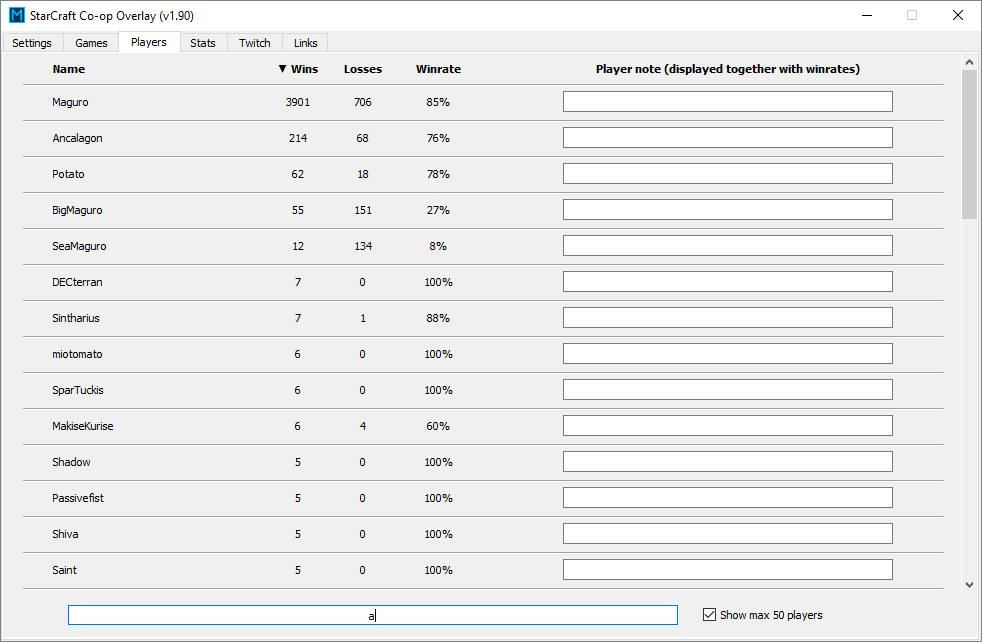
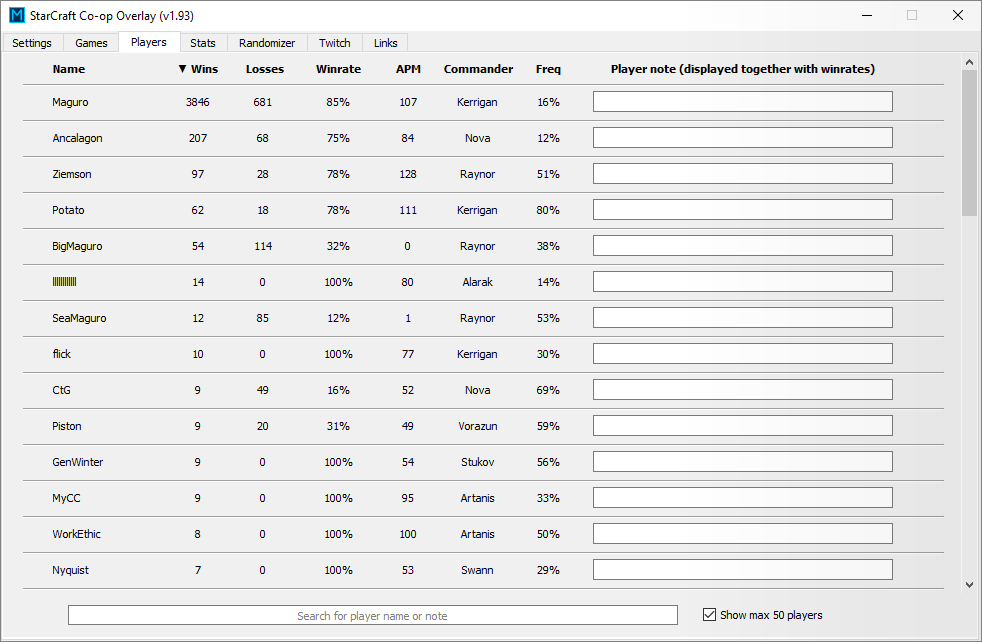
Commander, APM to player tab. Info img. Small things.

diff --git a/SCOFunctions/MUserInterface.py b/SCOFunctions/MUserInterface.py
@@ -669,11 +669,8 @@ class PlayerEntry:
 
     """
 
-    def __init__(self, name, wins, losses, note, parent):
-        self.name = name
-        self.wins = wins
-        self.losses = losses
-        self.winrate = 100*wins/(wins+losses)
+    def __init__(self, player, winrate_data, note, parent):
+        self.name = player
         self.note = note
 
         height = 30
@@ -694,22 +691,34 @@ class PlayerEntry:
         self.la_name.setText(self.name)
 
         self.la_wins = QtWidgets.QLabel(self.widget)
-        self.la_wins.setGeometry(QtCore.QRect(270, line_spacing, 31, 21))
+        self.la_wins.setGeometry(QtCore.QRect(170, line_spacing, 31, 21))
         self.la_wins.setAlignment(QtCore.Qt.AlignCenter)
-        self.la_wins.setText(str(self.wins))
 
         self.la_losses = QtWidgets.QLabel(self.widget)
-        self.la_losses.setGeometry(QtCore.QRect(330, line_spacing, 41, 21))
+        self.la_losses.setGeometry(QtCore.QRect(230, line_spacing, 41, 21))
         self.la_losses.setAlignment(QtCore.Qt.AlignCenter)
-        self.la_losses.setText(str(self.losses))
 
         self.la_winrate = QtWidgets.QLabel(self.widget)
-        self.la_winrate.setGeometry(QtCore.QRect(400, line_spacing, 51, 21))
+        self.la_winrate.setGeometry(QtCore.QRect(300, line_spacing, 51, 21))
         self.la_winrate.setAlignment(QtCore.Qt.AlignCenter)
-        self.la_winrate.setText(f'{self.winrate:.0f}%')
+
+        self.la_apm = QtWidgets.QLabel(self.widget)
+        self.la_apm.setGeometry(QtCore.QRect(370, line_spacing, 51, 21))
+        self.la_apm.setAlignment(QtCore.Qt.AlignCenter)
+        self.la_apm.setToolTip("Median APM")
+
+        self.la_commander = QtWidgets.QLabel(self.widget)
+        self.la_commander.setGeometry(QtCore.QRect(425, line_spacing, 81, 21))
+        self.la_commander.setAlignment(QtCore.Qt.AlignCenter)
+        self.la_commander.setToolTip("The most played commander")
+
+        self.la_frequency = QtWidgets.QLabel(self.widget)
+        self.la_frequency.setGeometry(QtCore.QRect(510, line_spacing, 51, 21))
+        self.la_frequency.setAlignment(QtCore.Qt.AlignCenter)
+        self.la_frequency.setToolTip("The most played commander frequency")
 
         self.ed_note = QtWidgets.QLineEdit(self.widget)
-        self.ed_note.setGeometry(QtCore.QRect(550, line_spacing, 330, 21))
+        self.ed_note.setGeometry(QtCore.QRect(580, line_spacing, 300, 21))
         self.ed_note.setAlignment(QtCore.Qt.AlignCenter)
         self.ed_note.setStyleSheet('color: #444')
         if not self.note in {None,''}:
@@ -721,6 +730,9 @@ class PlayerEntry:
 
         for item in {self.la_name, self.la_wins, self.la_losses, self.la_winrate}:
             item.setTextInteractionFlags(QtCore.Qt.TextSelectableByMouse)
+
+
+        self.update_winrates(winrate_data)
 
 
     def get_note(self):
@@ -742,8 +754,11 @@ class PlayerEntry:
         self.winrate = 100*self.wins/(self.wins+self.losses)
 
         self.la_wins.setText(str(self.wins))
-        self.la_losses.setText(str(self.losses))       
+        self.la_losses.setText(str(self.losses))
         self.la_winrate.setText(f'{self.winrate:.0f}%')
+        self.la_apm.setText(f'{data[2]:.0f}')
+        self.la_commander.setText(str(data[3]))  
+        self.la_frequency.setText(f'{100*data[4]:.0f}%')
 
 
 class WorkerSignals(QtCore.QObject):

diff --git a/SCO.py b/SCO.py
@@ -370,21 +370,39 @@ class UI_TabWidget(object):
 
         self.LA_Wins = QtWidgets.QLabel(self.WD_WinratesHeading)
         self.LA_Wins.setAlignment(QtCore.Qt.AlignCenter)
-        self.LA_Wins.setGeometry(QtCore.QRect(260, 0, 50, 31))
+        self.LA_Wins.setGeometry(QtCore.QRect(160, 0, 50, 31))
         self.LA_Wins.setText("▼ Wins")
 
         self.LA_Losses = QtWidgets.QLabel(self.WD_WinratesHeading)
         self.LA_Losses.setAlignment(QtCore.Qt.AlignCenter)
-        self.LA_Losses.setGeometry(QtCore.QRect(328, 0, 45, 31))
+        self.LA_Losses.setGeometry(QtCore.QRect(230, 0, 45, 31))
         self.LA_Losses.setText("Losses")
 
         self.LA_Winrate = QtWidgets.QLabel(self.WD_WinratesHeading)
-        self.LA_Winrate.setGeometry(QtCore.QRect(400, 0, 51, 31))
+        self.LA_Winrate.setGeometry(QtCore.QRect(300, 0, 51, 31))
         self.LA_Winrate.setAlignment(QtCore.Qt.AlignCenter)
         self.LA_Winrate.setText("Winrate")
 
+        self.LA_PL_APM = QtWidgets.QLabel(self.WD_WinratesHeading)
+        self.LA_PL_APM.setGeometry(QtCore.QRect(370, 0, 51, 31))
+        self.LA_PL_APM.setAlignment(QtCore.Qt.AlignCenter)
+        self.LA_PL_APM.setText("APM")
+        self.LA_PL_APM.setToolTip("Median APM")
+
+        self.LA_PL_Commander = QtWidgets.QLabel(self.WD_WinratesHeading)
+        self.LA_PL_Commander.setGeometry(QtCore.QRect(425, 0, 81, 31))
+        self.LA_PL_Commander.setAlignment(QtCore.Qt.AlignCenter)
+        self.LA_PL_Commander.setText("Commander")
+        self.LA_PL_Commander.setToolTip("The most played commander")
+
+        self.LA_PL_Frequency = QtWidgets.QLabel(self.WD_WinratesHeading)
+        self.LA_PL_Frequency.setGeometry(QtCore.QRect(495, 0, 81, 31))
+        self.LA_PL_Frequency.setAlignment(QtCore.Qt.AlignCenter)
+        self.LA_PL_Frequency.setText("Freq")
+        self.LA_PL_Frequency.setToolTip("The most played commander frequency")
+
         self.LA_Note = QtWidgets.QLabel(self.WD_WinratesHeading)
-        self.LA_Note.setGeometry(QtCore.QRect(550, 0, 330, 31))
+        self.LA_Note.setGeometry(QtCore.QRect(580, 0, 300, 31))
         self.LA_Note.setAlignment(QtCore.Qt.AlignCenter)
         self.LA_Note.setText("Player note (displayed together with winrates)")
 
@@ -1581,7 +1599,7 @@ class UI_TabWidget(object):
 
         for idx, player in enumerate(winrate_data):
             if not player in self.player_winrate_UI_dict:
-                self.player_winrate_UI_dict[player] = MUI.PlayerEntry(player, winrate_data[player][0], winrate_data[player][1], self.settings['player_notes'].get(player,None), self.SC_PlayersScrollAreaContents)
+                self.player_winrate_UI_dict[player] = MUI.PlayerEntry(player, winrate_data[player], self.settings['player_notes'].get(player,None), self.SC_PlayersScrollAreaContents)
                 self.SC_PlayersScrollAreaContentsLayout.addWidget(self.player_winrate_UI_dict[player].widget)
             else:
                 self.player_winrate_UI_dict[player].update_winrates(winrate_data[player])

diff --git a/SCOFunctions/MassReplayAnalysis.py b/SCOFunctions/MassReplayAnalysis.py
@@ -296,7 +296,14 @@ class mass_replay_analysis:
 
     def add_parsed_replay(self, parsed_data):
         """ Adds already parsed replay. Format has to be from my S2Parser"""
-        if parsed_data != None and len(parsed_data) > 1 and not parsed_data['file'] in self.parsed_replays:
+        if parsed_data != None and \
+            len(parsed_data) > 1 and \
+            not parsed_data['file'] in self.parsed_replays and \
+            not '[MM]' in parsed_data['file'] and \
+            parsed_data['isBlizzard'] and \
+            len(replay['players']) > 2 and \
+            replay['players'][1].get('commander') != None:
+
             self.ReplayDataAll.append(parsed_data)
             self.parsed_replays.add(parsed_data['file'])
             self.current_replays.add(parsed_data['file'])
@@ -366,13 +373,33 @@ class mass_replay_analysis:
             for p in {1,2}:
                 player = replay['players'][p]['name']
                 if not player in winrate_data:
-                    winrate_data[player] = [0,0]
+                    winrate_data[player] = [0,0,list(),list(),0] # Wins, losses, apm, commander, commander frequency
 
                 if replay['result'] == 'Victory':
                     winrate_data[player][0] += 1
                 else:
                     winrate_data[player][1] += 1
 
+                winrate_data[player][2].append(replay['players'][p]['apm'])
+                winrate_data[player][3].append(replay['players'][p]['commander'])
+
+
+        for player in winrate_data:
+            # Median APM
+            if len(winrate_data[player][2]) > 0:
+                winrate_data[player][2] = statistics.median(winrate_data[player][2])
+            else:
+                winrate_data[player][2] = 0
+
+            # Commander mode and frequency
+            if len(winrate_data[player][3]) > 0:
+                mode = statistics.mode(winrate_data[player][3])
+                winrate_data[player][4] = winrate_data[player][3].count(mode)/len(winrate_data[player][3])
+                winrate_data[player][3] = mode
+            else:
+                winrate_data[player][3] = ''
+                
+        # Sort by wins
         winrate_data = {k:v for k,v in sorted(winrate_data.items(), key=lambda x:x[1][0], reverse=True)}
         self.winrate_data = winrate_data
         return winrate_data

diff --git a/SCOFunctions/MLogging.py b/SCOFunctions/MLogging.py
@@ -23,7 +23,10 @@ class logclass:
         try:
             print(msg)
         except:
-            print(traceback.format_exc())
+            try:
+                print(traceback.format_exc())
+            except:
+                pass
 
         if self.LOGGING:
             with open(self.FILE,'ab') as f:

diff --git a/SCOFunctions/MainFunctions.py b/SCOFunctions/MainFunctions.py
@@ -475,7 +475,7 @@ def keyboard_NEWER():
 
 def keyboard_SHOWHIDE():
     """ Show/hide overlay"""
-    logger.info('Show/Hide event')
+    logger.info('Show-Hide event')
     sendEvent({'showHideEvent': True})
 
 
